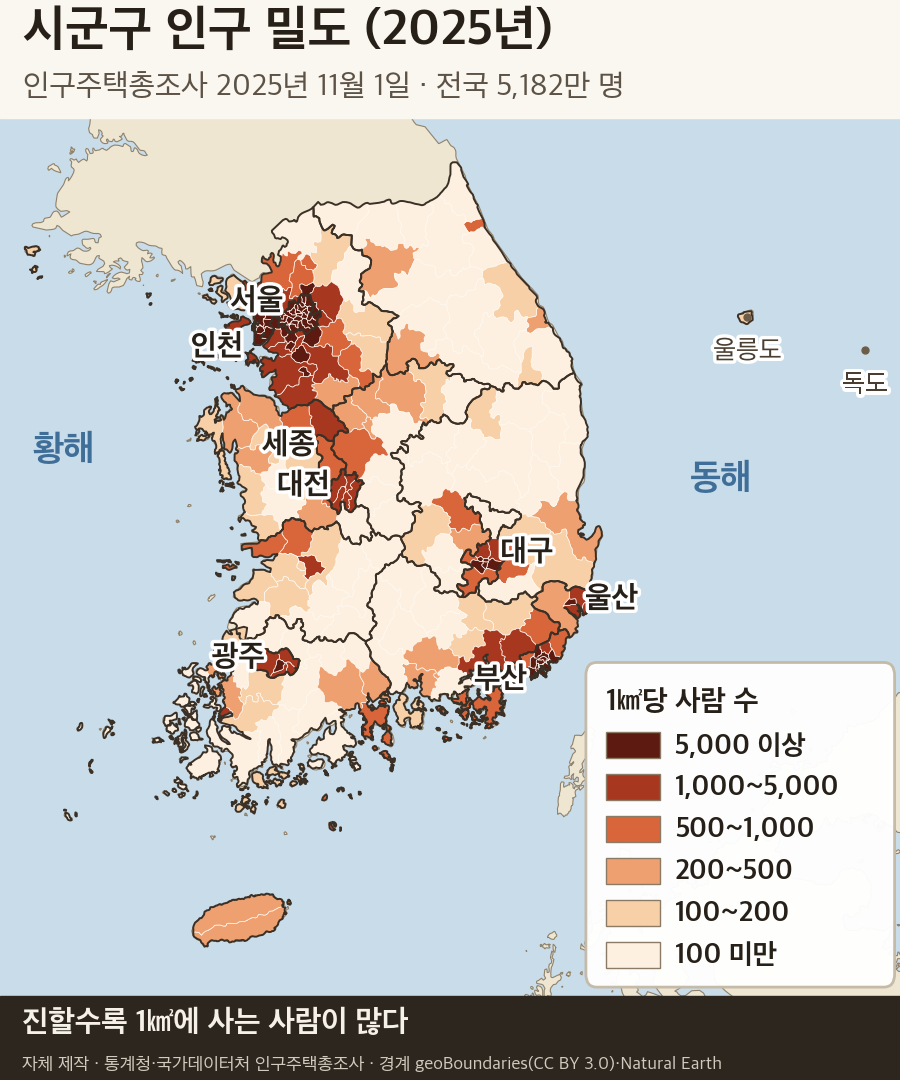
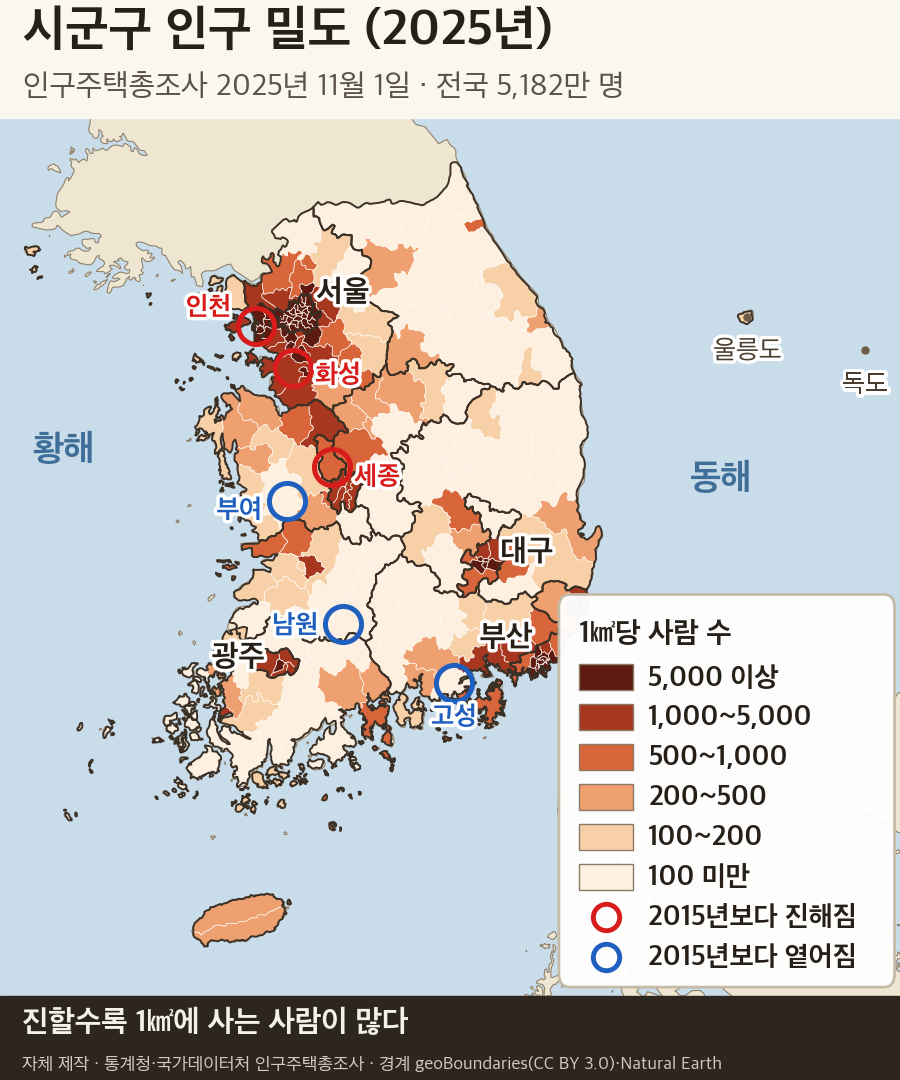
사회② 7-2 편집 — 생각 열기·2026 지도 한 상자(:::2단 … 교과서)·4단계 지도+변화표 한 상자(:::이어서)·다 채운 뒤에 하나로·학생용 출처·각주 제외·요인 버튼 격자로 같은 크기 · worksheet-gen 블록 둘 신설
Claude-Session: https://claude.ai/code/session_0112jfuNjXUAgEuhZG5Yg8vB

diff --git a/worksheets/7-2차시_우리나라의인구분포_개념편.html b/worksheets/7-2차시_우리나라의인구분포_개념편.html
@@ -205,10 +205,11 @@ code { background: #f1f3f7; border: 1px solid #e2e6ec; border-radius: 5px;
 .pk-gold .pk-card.pk-noimg { padding-top: 0; }
 .pk-gold .pk-card.pk-noimg .pk-name { padding-top: 14px; border-radius: 5px 5px 0 0; }
 .pk-gold .pk-card.pk-noimg .pk-btns { flex: 1 1 auto; justify-content: flex-start; }
-.pk-gold .pk-card.pk-noimg .pk-btns:not(.pk-btns-col) { align-items: flex-end; }
+/* 2026-10-07 격자로 — 한 버튼만 두 줄로 꺾여도(폰 «인문·사회») 두 버튼 높이·폭이 같게. 줄은 아래에 붙인다. */
+.pk-gold .pk-card.pk-noimg .pk-btns:not(.pk-btns-col) { display: grid; grid-auto-flow: column; grid-auto-columns: minmax(0, 1fr); align-content: end; }
 /* 2026-10-07 — 위 «flex: 0 0 auto»는 버튼 높이를 묶으려던 것인데 버튼 줄이 가로라 폭이 글자 크기로 묶였다
    (사회 7-4 «양» 17px · «비율» 28px). 폭은 똑같이 나누고(1 1 0) 높이는 아래 정렬로 고정한다. */
-.pk-gold .pk-card.pk-noimg .pk-btns:not(.pk-btns-col) .pk-b { flex: 1 1 0; }
+.pk-gold .pk-card.pk-noimg .pk-btns:not(.pk-btns-col) .pk-b { flex: none; }
 .pk-gold .pk-card.pk-noimg .pk-btns-col .pk-b { flex: 0 0 auto; }   /* 세로(선택지 셋 이상)는 높이 고정 그대로 */
 @media print { .pk-b { display: none; } .pk-card img { filter: none; } }
 
@@ -787,6 +788,14 @@ code { background: #f1f3f7; border: 1px solid #e2e6ec; border-radius: 5px;
   padding: 3px 10px; border-radius: 999px; margin-bottom: 8px;
 }
 .ws-tb-see { font-size: 0.9em; color: #7a6742; margin: 2px 0 6px; }
+/* 2026-10-07 :::2단 … 교과서 — 교과서 상자 바로 아래에 붙여 «생각 열기의 뒷이야기»로 읽히게(위 상자와 간격 줄임) */
+.ws-tb + .ws-tb-2c { margin-top: -6px; }
+.ws-tb-join { border-top: 1px dashed #d9c48f; margin-top: 12px; padding-top: 12px; }
+.ws-tb-join .ws-2c { margin: 4px 0 0; } .ws-tb-join table { background: #fff; } .ws-tb-join .c2-b { font-size: 0.95em; color: #3d3116; }
+.ws-tb-tag2 { background: #7a6742; }
+.ws-tb-2c .ws-2c { margin: 4px 0 0; }
+.ws-tb-2c table { background: #fff; }
+.ws-tb-2c .c2-b { font-size: 0.95em; color: #3d3116; }
 .ws-tb-ask { font-size: 0.95em; color: #3d3116; font-weight: 600; line-height: 2.1; }
 .ws-tb-ask strong { color: #8a5f12; }
 .ws-tb input.activity-input {
@@ -1040,7 +1049,7 @@ table:has(.ox-group) td:first-child { width: 46px; text-align: center; color: #6
 </head>
 <body>
 <div class="container">
-  <section class="hero-section"><h1 class="hero-title">사회② 인구 변화와 인구 문제 7-2차시 — 밤에 보면 왜 한쪽만 환할까? (우리나라 사람들은 어디에 살고 있을까?)</h1><p class="hero-subtitle">밤에 보면 왜 한쪽만 환할까?</p><div class="hero-keywords"><button type="button" class="hero-keyword has-card" data-card="1" aria-expanded="false">국회 의원 수는 무엇으로 정할까?<span class="kw-caret">＋</span></button><button type="button" class="hero-keyword has-card" data-card="2" aria-expanded="false">옛날 사람들은 우리나라 어디에 많이 살았을까?<span class="kw-caret">＋</span></button><button type="button" class="hero-keyword has-card" data-card="3" aria-expanded="false">1960년대 이후 사람들은 어디로 떠났을까?<span class="kw-caret">＋</span></button><button type="button" class="hero-keyword has-card" data-card="4" aria-expanded="false">광주와 곡성은 무엇이 다를까?<span class="kw-caret">＋</span></button></div><div class="hero-card" id="hero-card-1" hidden><div class="hero-card-inner"><p><strong>인구</strong>로 정한다. 선거구는 사람 수에 맞춰 나누기 때문에, 인구가 많은 곳일수록 선거구가 많고 국회 의원도 많다. 그래서 국회 의원 지도는 거꾸로 읽으면 인구 지도가 된다.</p></div></div><div class="hero-card" id="hero-card-2" hidden><div class="hero-card-inner"><p>벼농사에 유리한 <strong>남서부</strong> 평야 지역이다. 기후가 온화하고 평야가 넓어 쌀을 많이 거둘 수 있었다. 춥고 산이 많은 <strong>북동부</strong>는 사람이 적었다 — 이때는 <strong>자연적 요인</strong>이 사람을 불렀다.</p></div></div><div class="hero-card" id="hero-card-3" hidden><div class="hero-card-inner"><p>일자리가 있는 <strong>도시</strong>로 떠났다. 농촌을 떠나 도시로 향하는 <strong>이촌 향도</strong>다. 그 결과 대도시와 <strong>수도권</strong>, <strong>남동 임해 공업 지역</strong>에 사람이 몰렸다 — 이번에는 <strong>인문·사회적 요인</strong>이다.</p></div></div><div class="hero-card" id="hero-card-4" hidden><div class="hero-card-inner"><p>광주는 1㎢에 1,000명이 넘고 곡성군은 100명이 안 된다(교사용 교과서 131쪽 예시). 산지가 많은 지형(자연)에 더해 일자리·교통·생활 편의 시설(인문·사회)의 차이가 사람 수를 가른다.</p></div></div><img class="hero-image" src="images/7-2_hero_peninsula_night.jpg" alt=""><div class="hero-hook">우주 정거장에서 밤에 내려다본 우리나라다. 위쪽 한 덩어리만 유난히 하얗게 빛나고, 산이 많은 쪽은 깜깜하다. 불빛은 곧 사람이다. 우리나라 사람들은 어디에 몰려 살고, 왜 하필 거기일까?</div></section>
+  <section class="hero-section"><h1 class="hero-title">사회② 인구 변화와 인구 문제 7-2차시 — 밤에 보면 왜 한쪽만 환할까? (우리나라 사람들은 어디에 살고 있을까?)</h1><p class="hero-subtitle">밤에 보면 왜 한쪽만 환할까?</p><div class="hero-keywords"><button type="button" class="hero-keyword has-card" data-card="1" aria-expanded="false">국회 의원 수는 무엇으로 정할까?<span class="kw-caret">＋</span></button><button type="button" class="hero-keyword has-card" data-card="2" aria-expanded="false">옛날 사람들은 우리나라 어디에 많이 살았을까?<span class="kw-caret">＋</span></button><button type="button" class="hero-keyword has-card" data-card="3" aria-expanded="false">1960년대 이후 사람들은 어디로 떠났을까?<span class="kw-caret">＋</span></button><button type="button" class="hero-keyword has-card" data-card="4" aria-expanded="false">광주와 곡성은 무엇이 다를까?<span class="kw-caret">＋</span></button></div><div class="hero-card" id="hero-card-1" hidden><div class="hero-card-inner"><p><strong>인구</strong>로 정한다. 선거구는 사람 수에 맞춰 나누기 때문에, 인구가 많은 곳일수록 선거구가 많고 국회 의원도 많다. 그래서 국회 의원 지도는 거꾸로 읽으면 인구 지도가 된다.</p></div></div><div class="hero-card" id="hero-card-2" hidden><div class="hero-card-inner"><p>벼농사에 유리한 <strong>남서부</strong> 평야 지역이다. 기후가 온화하고 평야가 넓어 쌀을 많이 거둘 수 있었다. 춥고 산이 많은 <strong>북동부</strong>는 사람이 적었다 — 이때는 <strong>자연적 요인</strong>이 사람을 불렀다.</p></div></div><div class="hero-card" id="hero-card-3" hidden><div class="hero-card-inner"><p>일자리가 있는 <strong>도시</strong>로 떠났다. 농촌을 떠나 도시로 향하는 <strong>이촌 향도</strong>다. 그 결과 대도시와 <strong>수도권</strong>, <strong>남동 임해 공업 지역</strong>에 사람이 몰렸다 — 이번에는 <strong>인문·사회적 요인</strong>이다.</p></div></div><div class="hero-card" id="hero-card-4" hidden><div class="hero-card-inner"><p>광주는 1㎢에 1,000명이 넘고 곡성군은 100명이 안 된다(교사용 교과서 131쪽 예시). 산지가 많은 지형(자연)에 더해 일자리·교통·생활 편의 시설(인문·사회)의 차이가 사람 수를 가른다.</p><div class="card-quote">그림·지도 출처는 <a href="https://github.com/zzobakg-boop/vault-rag/blob/main/worksheets/images/CREDITS.md" target="_blank" rel="noopener">출처 모음</a>에 있다.</div></div></div><img class="hero-image" src="images/7-2_hero_peninsula_night.jpg" alt=""><div class="hero-hook">우주 정거장에서 밤에 내려다본 우리나라다. 위쪽 한 덩어리만 유난히 하얗게 빛나고, 산이 많은 쪽은 깜깜하다. 불빛은 곧 사람이다. 우리나라 사람들은 어디에 몰려 살고, 왜 하필 거기일까?</div></section>
   <div class="control-bar">
     <div class="score">
       빈칸: <span id="score">0</span>/7 · OX: <span id="ox-score">0</span>/5
@@ -1077,16 +1086,11 @@ table:has(.ox-group) td:first-child { width: 46px; text-align: center; color: #6
 <h2>📖 1단계: 국회 의원 수에 숨은 인구 지도</h2>
 <blockquote>📕 <strong>교과서 130쪽 펴고 · 배정 시간 6분</strong></blockquote>
 <br>
-<div class="ws-tb"><div class="ws-tb-tag">📕 교과서 130쪽 · 생각 열기</div><div class="ws-tb-see">지도에 지역마다 뽑는 국회 의원 수가 적혀 있다. 하나의 선거구에서 국회 의원 한 명을 뽑는다.</div><div class="ws-tb-ask">서울과 부산은 <strong>면적에 비해</strong> 국회 의원 수가 많다. 왜 그럴까? <input type="text" class="blank-input activity-input no-score" data-id="act-1" data-label="교과서 130쪽에서 찾기 — 서울과 부산은 면적에 비해 국회 의원 수가 많다. 왜 그럴까?" style="width:360px" placeholder=""></div></div>
-<br>
-<blockquote>🎙 교과서 지도는 2016년 것이야. 지금 지도로 다시 보자.</blockquote>
-<br>
+<div class="ws-tb"><div class="ws-tb-tag">📕 교과서 130쪽 · 생각 열기</div><div class="ws-tb-see">지도에 지역마다 뽑는 국회 의원 수가 적혀 있다. 하나의 선거구에서 국회 의원 한 명을 뽑는다.</div><div class="ws-tb-ask">서울과 부산은 <strong>면적에 비해</strong> 국회 의원 수가 많다. 왜 그럴까? <input type="text" class="blank-input activity-input no-score" data-id="act-1" data-label="교과서 130쪽에서 찾기 — 서울과 부산은 면적에 비해 국회 의원 수가 많다. 왜 그럴까?" style="width:360px" placeholder=""></div>
+<div class="ws-tb-join"><div class="ws-tb-tag ws-tb-tag2">📕 교과서 지도는 2016년 — 2026년 지금은?</div>
 <div class="ws-2c" style="grid-template-columns:minmax(0,1.15fr) minmax(0,1.0fr)"><div class="c2-a">
-<figure class="ws-fig"><img src="images/7-2_seats_2026.png" alt="2026년 시도별 지역구 국회 의원 수 지도. 숫자는 의원 수, 색은 넓이 1,000㎢당 의원 수다." loading="lazy"><figcaption>2026년 시도별 지역구 국회 의원 수 지도. 숫자는 의원 수, 색은 넓이 1,000㎢당 의원 수다.</figcaption></figure>
-<blockquote>🗺 자체 제작 · 공직선거법 [별표 1](2026. 4. 22. 개정) 지역구 254 · 경계 geoBoundaries(CC BY 3.0)·Natural Earth</blockquote>
+<figure class="ws-fig"><img src="images/7-2_seats_2026.png" alt="지역구 국회 의원 수(2026년)" loading="lazy"><figcaption>지역구 국회 의원 수(2026년)</figcaption></figure>
 </div><div class="c2-b">
-<p><strong>2016년 교과서 지도와 지금</strong></p>
-<br>
 <table>
 <tr><td></td><td>2016년</td><td>2026년</td></tr>
 <tr><td>전국 지역구</td><td>253명</td><td>254명</td></tr>
@@ -1096,20 +1100,19 @@ table:has(.ox-group) td:first-child { width: 46px; text-align: center; color: #6
 <tr><td>세종</td><td>1명</td><td>2명</td></tr>
 </table>
 <br>
-<p>2026년 7월 1일 광주광역시와 전라남도가 합쳐 <strong>전남광주통합특별시</strong>가 되었다. 그래서 지금 지도에는 '광주 8 + 전남 10'이 '전남광주 18'로 나온다.</p>
+<p>2026년 7월 광주와 전라남도가 합쳐 <strong>전남광주통합특별시</strong>가 되었다. 그래서 '광주 8 + 전남 10'이 지금은 '전남광주 18'이다.</p>
 <br>
-<p>🔍 <strong>숫자와 색을 따로 읽자.</strong> 숫자는 의원이 <strong>몇 명</strong>인지, 색은 같은 넓이에 의원이 <strong>얼마나 빽빽한지</strong>다. 경기는 60명으로 가장 많은데 색은 서울이 더 진하다.</p>
-</div></div>
-<br>
-<div class="ws-pick" id="pk42"><div class="pk-head"><span>이 숫자는 어떻게 만든 숫자일까? 사람·물건을 하나하나 센 숫자(몇 명·몇 개)이면 '센 수', 전체나 넓이·사람 수로 나눠 견준 숫자(몇 %·○○당)이면 '견준 값'을 고르자. 다 고르면 정답이 나오고, 틀린 카드는 까닭이 먼저 펼쳐진다.</span><b class="pk-count">0 / 6</b></div><div class="pk-grid pk-gold"><div class="pk-card pk-noimg" data-i="0" data-ans="센 수"><div class="pk-name">경기 지역구 60명</div><div class="pk-sit">2026년 경기도에서 뽑는 지역구 국회 의원</div><div class="pk-btns"><button type="button" class="pk-b" data-v="센 수">센 수</button><button type="button" class="pk-b" data-v="견준 값">견준 값</button></div><div class="pk-why" hidden>의원이 몇 명인지 그대로 센 수다</div></div><div class="pk-card pk-noimg" data-i="1" data-ans="견준 값"><div class="pk-name">서울 넓이 0.6%</div><div class="pk-sit">우리나라 땅 가운데 서울이 차지하는 넓이</div><div class="pk-btns"><button type="button" class="pk-b" data-v="센 수">센 수</button><button type="button" class="pk-b" data-v="견준 값">견준 값</button></div><div class="pk-why" hidden>나라 전체 넓이를 100으로 놓고 견준 값이다 — 서울 넓이 자체(605㎢)가 아니다</div></div><div class="pk-card pk-noimg" data-i="2" data-ans="견준 값"><div class="pk-name">서울 1,000㎢당 79명</div><div class="pk-sit">서울 넓이에 견준 지역구 의원 수</div><div class="pk-btns"><button type="button" class="pk-b" data-v="센 수">센 수</button><button type="button" class="pk-b" data-v="견준 값">견준 값</button></div><div class="pk-why" hidden>'○○당'은 넓이로 나눠 견준 값이다 — 서울 의원 수 자체는 48명이다</div></div><div class="pk-card pk-noimg" data-i="3" data-ans="센 수"><div class="pk-name">부산 20대 4,500명</div><div class="pk-sit">2025년 부산을 떠난 20대에서 들어온 20대를 뺀 수</div><div class="pk-btns"><button type="button" class="pk-b" data-v="센 수">센 수</button><button type="button" class="pk-b" data-v="견준 값">견준 값</button></div><div class="pk-why" hidden>사람 수를 그대로 센 값이다</div></div><div class="pk-card pk-noimg" data-i="4" data-ans="견준 값"><div class="pk-name">서울 1㎢에 1만 5천 명 넘게</div><div class="pk-sit">서울 넓이 1㎢마다 사는 사람</div><div class="pk-btns"><button type="button" class="pk-b" data-v="센 수">센 수</button><button type="button" class="pk-b" data-v="견준 값">견준 값</button></div><div class="pk-why" hidden>사람 수를 넓이로 나눈 값, 곧 인구 밀도다</div></div><div class="pk-card pk-noimg" data-i="5" data-ans="센 수"><div class="pk-name">경기 인구 1,378만 명</div><div class="pk-sit">2026년 9월 경기도에 주민 등록을 한 사람</div><div class="pk-btns"><button type="button" class="pk-b" data-v="센 수">센 수</button><button type="button" class="pk-b" data-v="견준 값">견준 값</button></div><div class="pk-why" hidden>사람 수를 그대로 센 값이다</div></div></div><div class="pk-result" hidden></div></div><script>(function(){var w=document.getElementById("pk42");var cs=[].slice.call(w.querySelectorAll(".pk-card")),N=cs.length;var OPTS=["센 수", "견준 값"],MOOD=false,OPEN=false;function done(){return cs.filter(function(c){return c.dataset.pick}).length}function reveal(){var ok=0;cs.forEach(function(c){var right=c.dataset.pick===c.dataset.ans;if(right)ok++;c.classList.add(right?"pk-ok":"pk-no");if(!right&&MOOD){c.classList.remove("pk-happy","pk-sad");c.classList.add(c.dataset.ans==="웃음"?"pk-happy":"pk-sad");}if(!right||OPEN)c.querySelector(".pk-why").hidden=false;if(right&&!OPEN&&!c.dataset.tap){c.dataset.tap=1;c.classList.add("pk-tap");c.addEventListener("click",function(e){if(e.target.closest&&e.target.closest(".pk-b"))return;var y=c.querySelector(".pk-why");y.hidden=!y.hidden;});}});var r=w.querySelector(".pk-result");r.hidden=false;r.innerHTML="<b>"+ok+" / "+N+"</b> 맞혔어. "+(OPEN?"모든 카드의 이유가 펼쳐졌어 — 틀린 카드부터 보자.":"틀린 카드는 이유가 먼저 펼쳐졌어 — 거기부터 보자. 맞힌 카드도 누르면 이유가 열려.")+"<div class='pk-sum'>"+OPTS.map(function(o,oi){var head=MOOD?(o==="웃음"?"웃는 사람":"우는 사람"):o;var cls=MOOD?(o==="웃음"?"pk-up":"pk-down"):("pk-c"+oi);return "<div class='pk-col "+cls+"'><b>"+head+"</b>"+cs.filter(function(c){return c.dataset.ans===o}).map(function(c){return "<span>"+c.querySelector(".pk-name").textContent+"</span>"}).join("")+"</div>"}).join("")+"</div>";r.scrollIntoView({block:"nearest",behavior:"smooth"});}cs.forEach(function(c){c.querySelectorAll(".pk-b").forEach(function(b){b.addEventListener("click",function(){if(w.classList.contains("pk-done"))return;c.dataset.pick=b.dataset.v;c.classList.add("pk-set");if(MOOD){c.classList.remove("pk-happy","pk-sad");c.classList.add(b.dataset.v==="웃음"?"pk-happy":"pk-sad");}c.querySelectorAll(".pk-b").forEach(function(x){x.classList.toggle("on",x===b)});w.querySelector(".pk-count").textContent=done()+" / "+N;if(done()===N){w.classList.add("pk-done");reveal();}});});});})();</script>
-<br>
-<blockquote>🎙 시험에서 '무역 의존도가 높다 = 수출을 많이 한다'로 읽어서 틀린 친구들이 많았지? 견준 값(%)은 무엇으로 나눴는지에 따라 달라져서 크기 자체를 말해 주지 않아. 인구 단원에는 이런 숫자가 계속 나와.</blockquote>
+<p>🔍 숫자는 의원이 <strong>몇 명</strong>인지, 색은 같은 넓이에 <strong>얼마나 빽빽한지</strong>다. 경기가 60명으로 가장 많은데 왜 서울 색이 더 진할까?</p>
+</div></div></div>
+<!--tb-end--></div>
 <br>
 <details class="ws-fold ws-fold-더보기"><summary>답을 쓴 뒤에 펼쳐 보기 — 국회 의원 지도는 무엇을 보여 줄까</summary><div class="ws-fold-body">
 <p>🎙 국회 의원을 뽑는 선거구는 <strong>사람 수</strong>에 맞춰 나눠. 그래서 국회 의원 지도를 거꾸로 읽으면 <strong>인구 지도</strong>가 돼.</p>
+<p>그런데 10년 사이 수도권 사람이 늘었는데도 수도권 의원 수는 그대로다. 선거구마다 사람 수가 조금씩 달라도 되게 범위를 두고 전체 의석수도 거의 그대로라, 사람 수가 조금 바뀐다고 의원 수가 곧바로 따라 바뀌지는 않는다.</p>
+<p>🎙 국회 의원만 그런 게 아니야. 프로야구 10개 구단 가운데 LG·두산·키움 셋이 서울을 연고지로 쓰고, 인천 SSG와 수원 KT까지 더하면 다섯이 수도권이야. 사람이 많은 곳에 팬도 많으니까. 우리 KIA는 광주 하나뿐이지.</p>
 </div></details>
 <br>
-<blockquote>🎙 국회 의원만 그런 게 아니야. 프로야구 10개 구단 가운데 LG·두산·키움 셋이 서울을 연고지로 쓰고, 인천 SSG와 수원 KT까지 더하면 다섯이 수도권이야. 사람이 많은 곳에 팬도 많으니까. 우리 KIA는 광주 하나뿐이지.</blockquote>
+<div class="ws-pick" id="pk44"><div class="pk-head"><span>🔢 이 숫자는 하나하나 '센 수'(몇 명·몇 개)일까, 무엇으로 나눠 '견준 값'(몇 %·○○당)일까?</span><b class="pk-count">0 / 6</b></div><div class="pk-grid pk-gold"><div class="pk-card pk-noimg" data-i="0" data-ans="센 수"><div class="pk-name">경기 지역구 60명</div><div class="pk-sit">2026년 경기도에서 뽑는 지역구 국회 의원</div><div class="pk-btns"><button type="button" class="pk-b" data-v="센 수">센 수</button><button type="button" class="pk-b" data-v="견준 값">견준 값</button></div><div class="pk-why" hidden>의원이 몇 명인지 그대로 센 수다</div></div><div class="pk-card pk-noimg" data-i="1" data-ans="견준 값"><div class="pk-name">서울 넓이 0.6%</div><div class="pk-sit">우리나라 땅 가운데 서울이 차지하는 넓이</div><div class="pk-btns"><button type="button" class="pk-b" data-v="센 수">센 수</button><button type="button" class="pk-b" data-v="견준 값">견준 값</button></div><div class="pk-why" hidden>나라 전체 넓이를 100으로 놓고 견준 값이다 — 서울 넓이 자체(605㎢)가 아니다</div></div><div class="pk-card pk-noimg" data-i="2" data-ans="견준 값"><div class="pk-name">서울 1,000㎢당 79명</div><div class="pk-sit">서울 넓이에 견준 지역구 의원 수</div><div class="pk-btns"><button type="button" class="pk-b" data-v="센 수">센 수</button><button type="button" class="pk-b" data-v="견준 값">견준 값</button></div><div class="pk-why" hidden>'○○당'은 넓이로 나눠 견준 값이다 — 서울 의원 수 자체는 48명이다</div></div><div class="pk-card pk-noimg" data-i="3" data-ans="센 수"><div class="pk-name">부산 20대 4,500명</div><div class="pk-sit">2025년 부산을 떠난 20대에서 들어온 20대를 뺀 수</div><div class="pk-btns"><button type="button" class="pk-b" data-v="센 수">센 수</button><button type="button" class="pk-b" data-v="견준 값">견준 값</button></div><div class="pk-why" hidden>사람 수를 그대로 센 값이다</div></div><div class="pk-card pk-noimg" data-i="4" data-ans="견준 값"><div class="pk-name">서울 1㎢에 1만 5천 명 넘게</div><div class="pk-sit">서울 넓이 1㎢마다 사는 사람</div><div class="pk-btns"><button type="button" class="pk-b" data-v="센 수">센 수</button><button type="button" class="pk-b" data-v="견준 값">견준 값</button></div><div class="pk-why" hidden>사람 수를 넓이로 나눈 값, 곧 인구 밀도다</div></div><div class="pk-card pk-noimg" data-i="5" data-ans="센 수"><div class="pk-name">경기 인구 1,378만 명</div><div class="pk-sit">2026년 9월 경기도에 주민 등록을 한 사람</div><div class="pk-btns"><button type="button" class="pk-b" data-v="센 수">센 수</button><button type="button" class="pk-b" data-v="견준 값">견준 값</button></div><div class="pk-why" hidden>사람 수를 그대로 센 값이다</div></div></div><div class="pk-result" hidden></div></div><script>(function(){var w=document.getElementById("pk44");var cs=[].slice.call(w.querySelectorAll(".pk-card")),N=cs.length;var OPTS=["센 수", "견준 값"],MOOD=false,OPEN=false;function done(){return cs.filter(function(c){return c.dataset.pick}).length}function reveal(){var ok=0;cs.forEach(function(c){var right=c.dataset.pick===c.dataset.ans;if(right)ok++;c.classList.add(right?"pk-ok":"pk-no");if(!right&&MOOD){c.classList.remove("pk-happy","pk-sad");c.classList.add(c.dataset.ans==="웃음"?"pk-happy":"pk-sad");}if(!right||OPEN)c.querySelector(".pk-why").hidden=false;if(right&&!OPEN&&!c.dataset.tap){c.dataset.tap=1;c.classList.add("pk-tap");c.addEventListener("click",function(e){if(e.target.closest&&e.target.closest(".pk-b"))return;var y=c.querySelector(".pk-why");y.hidden=!y.hidden;});}});var r=w.querySelector(".pk-result");r.hidden=false;r.innerHTML="<b>"+ok+" / "+N+"</b> 맞혔어. "+(OPEN?"모든 카드의 이유가 펼쳐졌어 — 틀린 카드부터 보자.":"틀린 카드는 이유가 먼저 펼쳐졌어 — 거기부터 보자. 맞힌 카드도 누르면 이유가 열려.")+"<div class='pk-sum'>"+OPTS.map(function(o,oi){var head=MOOD?(o==="웃음"?"웃는 사람":"우는 사람"):o;var cls=MOOD?(o==="웃음"?"pk-up":"pk-down"):("pk-c"+oi);return "<div class='pk-col "+cls+"'><b>"+head+"</b>"+cs.filter(function(c){return c.dataset.ans===o}).map(function(c){return "<span>"+c.querySelector(".pk-name").textContent+"</span>"}).join("")+"</div>"}).join("")+"</div>";r.scrollIntoView({block:"nearest",behavior:"smooth"});}cs.forEach(function(c){c.querySelectorAll(".pk-b").forEach(function(b){b.addEventListener("click",function(){if(w.classList.contains("pk-done"))return;c.dataset.pick=b.dataset.v;c.classList.add("pk-set");if(MOOD){c.classList.remove("pk-happy","pk-sad");c.classList.add(b.dataset.v==="웃음"?"pk-happy":"pk-sad");}c.querySelectorAll(".pk-b").forEach(function(x){x.classList.toggle("on",x===b)});w.querySelector(".pk-count").textContent=done()+" / "+N;if(done()===N){w.classList.add("pk-done");reveal();}});});});})();</script>
 <br>
 <h2>📖 2단계: 산업화 이전 — 사람은 논을 따라 살았다</h2>
 <blockquote>📕 <strong>교과서 130쪽 펴고 · 배정 시간 6분</strong></blockquote>
@@ -1126,20 +1129,17 @@ table:has(.ox-group) td:first-child { width: 46px; text-align: center; color: #6
 <p>지금 우리나라 인구는 서울을 중심으로 하는 수도권에 전체의 ⑥<input type="text" class="blank-input" data-answer="절반" data-id="6" style="width:60px" placeholder=""> 정도가 살고, 그 밖에 부산·대구 같은 대도시에 밀집해 있다. 반면 태백산맥과 소백산맥 일대의 ⑦<input type="text" class="blank-input" data-answer="산간" data-id="7" style="width:60px" placeholder=""> 지역과 농어촌 지역은 인구가 감소하거나 정체되어 희박하다.</p>
 <br>
 <div class="ws-2c" style="grid-template-columns:minmax(0,1.0fr) minmax(0,1.0fr)"><div class="c2-a">
-<figure class="ws-fig"><img src="images/7-2_density.jpg" alt="우리나라의 인구 밀도 지도, 2000년. 1㎢에 사는 사람 수를 색으로 나타냈다. 진한 밤색일수록 빽빽하다." loading="lazy"><figcaption>우리나라의 인구 밀도 지도, 2000년. 1㎢에 사는 사람 수를 색으로 나타냈다. 진한 밤색일수록 빽빽하다.</figcaption></figure>
-<blockquote>📷 우리나라의 인구 밀도, 2000년 (CIESIN 컬럼비아대학교 · SEDACMaps · CC BY 2.0 · Wikimedia Commons) — 범례 'Persons per km²'는 '1㎢당 사람 수'다.</blockquote>
+<figure class="ws-fig"><img src="images/7-2_density.jpg" alt="우리나라 인구 밀도(2000년) — 진할수록 빽빽하다 · Persons per km² = 1㎢당 사람 수" loading="lazy"><figcaption>우리나라 인구 밀도(2000년) — 진할수록 빽빽하다 · Persons per km² = 1㎢당 사람 수</figcaption></figure>
 </div><div class="c2-b">
-<figure class="ws-fig"><img src="images/7-2_mountain_ranges.png" alt="태백산맥과 소백산맥 지도. 태백산맥은 동해안을 따라 설악산에서 태백산을 지나 남쪽으로, 소백산맥은 태백산에서 갈라져 소백산·속리산을 지나 지리산까지 남서쪽으로 뻗는다. 일대의 시·군으로 정선·태백·단양·영주·문경·무주·남원을 표시했다." loading="lazy"><figcaption>태백산맥과 소백산맥 지도. 태백산맥은 동해안을 따라 설악산에서 태백산을 지나 남쪽으로, 소백산맥은 태백산에서 갈라져 소백산·속리산을 지나 지리산까지 남서쪽으로 뻗는다. 일대의 시·군으로 정선·태백·단양·영주·문경·무주·남원을 표시했다.</figcaption></figure>
-<blockquote>🗺 자체 제작 · 지형 음영 Natural Earth · 산맥 선은 주요 산을 이은 개념도</blockquote>
+<figure class="ws-fig"><img src="images/7-2_mountain_ranges.png" alt="태백산맥과 소백산맥 — 대표 산과 일대의 시·군" loading="lazy"><figcaption>태백산맥과 소백산맥 — 대표 산과 일대의 시·군</figcaption></figure>
 </div></div>
 <br>
 <p>빈칸을 채웠으면 지도로 확인하자. 왼쪽 지도에서 <strong>가장 진한 덩어리 셋</strong>을 찾아 어느 지역인지 말해 보자. 그다음 오른쪽 산맥 지도와 견주어 보자 — 왼쪽 지도에서 옅은 띠가 어디를 따라 이어지는가?</p>
 <br>
-<blockquote>🎙 태백산맥 쪽에는 정선·태백, 소백산맥 쪽에는 단양·영주·문경·무주·남원 같은 시·군이 있어. 정선군은 1㎢에 30명이 안 되고, 단양군은 40명이 안 돼. 서울은 같은 넓이에 1만 5천 명 넘게 살아.</blockquote>
+<blockquote>🎙 표지 사진에서 하얗게 빛나던 덩어리가 수도권, 그 사이 깜깜한 산줄기가 오른쪽 지도의 산맥이야. 태백산맥 쪽에는 정선·태백, 소백산맥 쪽에는 단양·영주·문경·무주·남원 같은 시·군이 있어. 정선군은 1㎢에 30명이 안 되고, 단양군은 40명이 안 돼. 서울은 같은 넓이에 1만 5천 명 넘게 살아.</blockquote>
 <br>
 <div class="ws-2c" style="grid-template-columns:minmax(0,1.2fr) minmax(0,1.0fr)"><div class="c2-a">
-<figure class="ws-fig"><img src="images/7-2_coastal_industry.png" alt="영일만의 포항에서 울산·부산·창원·거제를 지나 여수·광양까지 남동쪽 바닷가를 따라 공업 도시가 띠처럼 이어진 지도. 도시마다 제철·자동차·조선·석유 화학·기계 같은 대표 산업을 적었다." loading="lazy"><figcaption>영일만의 포항에서 울산·부산·창원·거제를 지나 여수·광양까지 남동쪽 바닷가를 따라 공업 도시가 띠처럼 이어진 지도. 도시마다 제철·자동차·조선·석유 화학·기계 같은 대표 산업을 적었다.</figcaption></figure>
-<blockquote>🗺 자체 제작 · 바탕 Natural Earth(퍼블릭 도메인) · 시도 경계 geoBoundaries(CC BY 3.0) · 띠는 개념도</blockquote>
+<figure class="ws-fig"><img src="images/7-2_coastal_industry.png" alt="남동쪽 바닷가의 공업 도시 — 빨간 글자는 대표 산업" loading="lazy"><figcaption>남동쪽 바닷가의 공업 도시 — 빨간 글자는 대표 산업</figcaption></figure>
 </div><div class="c2-b">
 <p>지도의 붉은 띠가 빈칸 ⑤에 들어갈 공업 지역이다. 영일만의 포항에서 울산·부산을 거쳐 광양만까지 남동쪽 바닷가를 따라 이어진다.</p>
 <br>
@@ -1148,44 +1148,33 @@ table:has(.ox-group) td:first-child { width: 46px; text-align: center; color: #6
 <p>🔍 지도에서 빨간 글자를 보자. 쇠를 만들고(제철), 배를 짓고(조선), 기름에서 원료를 뽑는(석유 화학) <strong>무거운 공업</strong>이 많다.</p>
 </div></div>
 <br>
-<details class="ws-fold ws-fold-더보기"><summary>다 채운 뒤에 — 이름의 뜻</summary><div class="ws-fold-body">
-<p>⑤의 '임해'(臨海)는 '바다에 닿아 있다'는 뜻이다. 남동쪽 바닷가에 닿아 있는 공업 지역이라는 이름이다.</p>
-</div></details>
-<br>
-<blockquote>🎙 표지 사진의 그 하얀 덩어리가 바로 수도권이야. 오른쪽 아래 끝에서 빛나는 곳이 부산이고, 그 사이 산줄기는 깜깜하지.</blockquote>
-<br>
-<details class="ws-fold ws-fold-더보기"><summary>다 채운 뒤에 — 밀집한 대도시 부산의 반전</summary><div class="ws-fold-body">
-<p>🎙 그런데 반전이 있어. 교과서는 부산을 '사람이 밀집한 대도시'로 들었지? 사람이 많이 사는 곳이라고 사람이 계속 들어오는 건 아니야. 2025년에 부산은 들어온 사람보다 떠난 사람이 1만 2천 명 많았고, 그 가운데 20대가 4천 5백 명으로 나이대 중에서 가장 많았어. 떠난 까닭으로 가장 많이 꼽은 건 <strong>일자리</strong>였고, 부산을 떠나 수도권으로 간 사람이 다른 어느 시·도보다 많았어. 1960년대 시골 청년이 일자리를 찾아 부산에 왔듯, 지금은 부산 청년이 일자리를 찾아 수도권으로 가는 거야.</p>
-</div></details>
-<br>
-<details class="ws-fold ws-fold-더보기"><summary>다 채운 뒤에 — 지금 값과 다른 나라</summary><div class="ws-fold-body">
-<p>지금 값 — 교과서는 '절반 정도'라고 썼다. 2026년 9월 주민등록 인구로 수도권은 <strong>51.1%</strong>다. 2019년에 처음 절반을 넘었다.</p>
-<p>수도권 사람은 늘었는데 의원 수는 왜 그대로일까? 교사용 교과서 자료 해설은 '수도권 인구 약 2,527만 명(2015년), 전체의 49.5%, 지역구 의원 122명'이다. 2025년에는 2,638만 명(50.9%)으로 늘었는데 수도권 지역구는 여전히 122명이다(서울이 1명 줄고 인천이 1명 늘었다). 선거구는 사람 수에 맞춰 나누지만 선거구마다 사람 수가 조금씩 다를 수 있게 범위를 두고 전체 의석수도 거의 그대로라, 사람 수가 조금 바뀐다고 의원 수가 곧바로 따라 바뀌지는 않는다.</p>
-<p>아이슬란드는 국민의 약 3분의 2(64%)가 수도 레이캬비크와 그 둘레에 산다(아이슬란드 통계청, 2024).</p>
-<p>인도네시아는 국토의 7%도 안 되는 자와섬에 국민의 56%가 산다(인도네시아 통계청 인구 총조사, 2020).</p>
-<p>🎙 한곳에 몰리는 건 우리만의 일은 아니야. 그런데 왜 몰렸는지는 나라마다 달라. 아이슬란드는 땅 대부분이 얼음과 화산이라서, 자와섬은 땅이 기름져서야. 우리나라는 무엇 때문이었지?</p>
+<details class="ws-fold ws-fold-더보기"><summary>다 채운 뒤에 — 빈칸 너머 이야기</summary><div class="ws-fold-body">
+<p><strong>⑤ 이름의 뜻</strong> — '임해'(臨海)는 '바다에 닿아 있다'는 뜻이다.</p>
+<p><strong>⑥ 지금은</strong> — 수도권에 사는 사람은 51.1%(2026년 9월)다. 2019년에 처음 절반을 넘었다.</p>
+<p><strong>부산의 반전</strong> — 2025년 부산은 들어온 사람보다 떠난 사람이 1만 2천 명 많았고, 떠난 사람은 20대가 가장 많았다. 1960년대엔 부산으로 오던 청년이 지금은 일자리를 찾아 수도권으로 간다.</p>
+<p><strong>다른 나라도 몰려 산다</strong> — 아이슬란드 사람 64%는 수도 둘레에(땅 대부분이 얼음과 화산), 인도네시아 사람 56%는 국토의 7%도 안 되는 자와섬에(화산재 땅이 기름져서) 산다.</p>
+<p>🎙 몰리는 까닭은 나라마다 달라. 우리나라는 무엇 때문이었지?</p>
 </div></details>
 <br>
 <h2>📖 4단계: 우리 동네는 어떨까 — 광주와 곡성</h2>
 <blockquote>📕 <strong>교과서 131쪽 펴고 · 배정 시간 8분</strong></blockquote>
 <br>
-<p>교과서 131쪽 지도는 2015년이다. 같은 자료(인구주택총조사)와 같은 색 구간으로 2015년과 2025년을 다시 그려 나란히 놓았다.</p>
 <br>
+<div class="ws-tb ws-tb-2c"><div class="ws-tb-tag">📕 교과서 131쪽 지도는 2015년 — 10년 뒤 2025년은? 오른쪽 동그라미가 바뀐 곳</div>
 <div class="ws-2c" style="grid-template-columns:minmax(0,1.0fr) minmax(0,1.0fr)"><div class="c2-a">
-<figure class="ws-fig"><img src="images/7-2_density_2015.png" alt="2015년 시군구 인구 밀도 지도. 교과서 131쪽과 같은 여섯 구간으로 칠했다." loading="lazy"><figcaption>2015년 시군구 인구 밀도 지도. 교과서 131쪽과 같은 여섯 구간으로 칠했다.</figcaption></figure>
+<figure class="ws-fig"><img src="images/7-2_density_2015.png" alt="2015년 — 교과서 131쪽과 같은 자료·같은 색 구간으로 다시 그림" loading="lazy"><figcaption>2015년 — 교과서 131쪽과 같은 자료·같은 색 구간으로 다시 그림</figcaption></figure>
 </div><div class="c2-b">
-<figure class="ws-fig"><img src="images/7-2_density_2025.png" alt="2025년 시군구 인구 밀도 지도. 2015년 지도와 같은 여섯 구간으로 칠했다." loading="lazy"><figcaption>2025년 시군구 인구 밀도 지도. 2015년 지도와 같은 여섯 구간으로 칠했다.</figcaption></figure>
+<figure class="ws-fig"><img src="images/7-2_density_2025.png" alt="2025년 — 동그라미가 바뀐 곳" loading="lazy"><figcaption>2025년 — 동그라미가 바뀐 곳</figcaption></figure>
 </div></div>
-<blockquote>🗺 자체 제작 · 통계청·국가데이터처 인구주택총조사(2015·2025년 11월 1일) · 경계 geoBoundaries(CC BY 3.0) — 넓이는 경계 자료로 잰 값이라 실제와 조금 다를 수 있다</blockquote>
+<div class="ws-tb-join"><div class="ws-tb-tag ws-tb-tag2">🔍 10년 동안 무엇이 달라졌을까?</div>
+<table>
+<tr><td>그대로인 것</td><td>🔴 진해진 곳</td><td>🔵 옅어진 곳</td></tr>
+<tr><td>수도권·대도시는 진하고, 강원·경북 북부와 소백산맥을 따라 옅다</td><td><strong>화성</strong> 61만 → 103만 명 · <strong>세종</strong> 20만 → 39만 명 · 인천 <strong>송도·청라</strong> — 새 아파트 단지·공장·정부 청사</td><td><strong>부여·남원·경남 고성</strong> — 1㎢에 100명 아래로 · <strong>곡성</strong>도 50명 아래로</td></tr>
+</table>
 <br>
-<p>🔍 <strong>10년 동안 무엇이 달라졌을까?</strong></p>
-<p><strong>그대로인 것</strong> — 큰 모양이다. 수도권과 대도시는 진하고, 강원·경북 북부와 소백산맥을 따라 옅다.</p>
-<br>
-<p><strong>진해진 곳</strong> — 경기 <strong>화성시</strong>는 61만 명에서 103만 명으로 늘어 한 단계 진해졌다. <strong>세종시</strong>(20만 → 39만 명)와 인천 <strong>송도·청라</strong>가 있는 연수구·서구도 진해졌다. 새 아파트 단지와 공장, 정부 청사가 들어선 곳이다.</p>
-<br>
-<p><strong>옅어진 곳</strong> — 충남 부여군, 전북 남원시, 경남 고성군은 1㎢에 100명이 넘다가 100명 아래로 내려갔다. 곡성군도 1㎢에 50명 남짓이던 것이 50명 아래로 줄었다.</p>
-<br>
-<blockquote>🎙 2015년과 2025년 지도를 처음 보면 '똑같은데?' 싶을 거야. 바로 그게 첫째 답이야 — 사람이 모이는 큰 틀은 10년 만에 잘 바뀌지 않아. 바뀐 건 새 도시가 생긴 몇 곳과, 조금씩 비어 가는 시골이야.</blockquote>
+<p>🎙 처음 보면 '똑같은데?' 싶지? 그게 첫째 답이야 — 사람이 모이는 큰 틀은 10년 만에 잘 안 바뀌어. 바뀐 건 새 도시가 생긴 몇 곳과, 조금씩 비어 가는 시골이야.</p>
+</div>
+<!--tb-end--></div>
 <br>
 <div class="ws-tb"><div class="ws-tb-tag">📕 교과서 131쪽 · 스스로 탐구 「우리나라의 인구 분포」</div><div class="ws-tb-see">2번 표에서 요인 넷(지형·산업·교통·생활 편의 시설)을 '인구 분포 특징'과 연결해 보자.</div><div class="ws-tb-ask">넷 가운데 <strong>산지가 많은 강원도</strong>의 인구가 적은 까닭이 되는 요인 두 개를 골라, 왜 그 요인인지 한 줄씩 적자. <input type="text" class="blank-input activity-input no-score" data-id="act-2" data-label="교과서 131쪽에서 찾기 — 넷 가운데 산지가 많은 강원도의 인구가 적은 까닭이 되는 요인 두 개" style="width:360px" placeholder=""></div></div>
 <br>
@@ -1194,12 +1183,13 @@ table:has(.ox-group) td:first-child { width: 46px; text-align: center; color: #6
 <p>🎙 놀러 오는 사람이 아무리 많아도 인구 지도는 <strong>그곳에 사는 사람</strong>을 세. '인구가 희박한 도'라는 말 안에도 사람이 모인 도시와 빈 산골이 같이 있는 거야.</p>
 </div></details>
 <br>
-<blockquote>🎙 광주 바로 옆에 곡성군이 있어. 광주는 1㎢에 1,000명이 넘게 살고, 곡성군은 100명이 안 돼. 2026년 7월부터 둘은 같은 '전남광주통합특별시'가 됐지만, 이름이 하나가 됐다고 사는 모습까지 같아지지는 않아. 이웃한 두 곳이 왜 이렇게 다를까?</blockquote>
+<div class="ws-2c c2-mid" style="grid-template-columns:minmax(0,1.0fr) minmax(0,1.1fr)"><div class="c2-a">
+<figure class="ws-fig"><img src="images/7-2_gokseong.jpg" alt="곡성읍 — 작은 읍내 뒤로 논과 산줄기" loading="lazy"><figcaption>곡성읍 — 작은 읍내 뒤로 논과 산줄기</figcaption></figure>
+</div><div class="c2-b">
+<p>🎙 광주 바로 옆에 곡성군이 있어. 광주는 1㎢에 1,000명이 넘게 살고, 곡성군은 100명이 안 돼. 2026년 7월부터 둘은 같은 '전남광주통합특별시'가 됐지만, 이름이 하나가 됐다고 사는 모습까지 같아지지는 않아. 이웃한 두 곳이 왜 이렇게 다를까?</p>
+</div></div>
 <br>
-<figure class="ws-fig"><img src="images/7-2_gokseong.jpg" alt="전라남도 곡성군 곡성읍을 높은 곳에서 내려다본 모습. 낮은 건물과 학교 운동장이 모인 작은 읍내 뒤로 논이 펼쳐지고, 그 너머를 산줄기가 둘러싸고 있다." loading="lazy"><figcaption>전라남도 곡성군 곡성읍을 높은 곳에서 내려다본 모습. 낮은 건물과 학교 운동장이 모인 작은 읍내 뒤로 논이 펼쳐지고, 그 너머를 산줄기가 둘러싸고 있다.</figcaption></figure>
-<blockquote>📷 곡성읍 전경 (한국학중앙연구원 · 공공누리 제1유형 · Wikimedia Commons) — 촬영 연도 미상</blockquote>
-<br>
-<div class="ws-pick" id="pk140"><div class="pk-head"><span>사람을 부르는 조건 여섯 가지다. 사람이 만든 것인지 아닌지로 골라 보자. 다 고르면 까닭이 열린다.</span><b class="pk-count">0 / 6</b></div><div class="pk-grid pk-gold"><div class="pk-card pk-noimg" data-i="0" data-ans="자연적 요인"><div class="pk-name">온화한 기후</div><div class="pk-sit">벼농사에 알맞게 따뜻하다</div><div class="pk-btns"><button type="button" class="pk-b" data-v="자연적 요인">자연적 요인</button><button type="button" class="pk-b" data-v="인문·사회적 요인">인문·사회적 요인</button></div><div class="pk-why" hidden>날씨는 사람이 만들지 않았다</div></div><div class="pk-card pk-noimg" data-i="1" data-ans="자연적 요인"><div class="pk-name">넓은 평야</div><div class="pk-sit">논을 넓게 만들 수 있다</div><div class="pk-btns"><button type="button" class="pk-b" data-v="자연적 요인">자연적 요인</button><button type="button" class="pk-b" data-v="인문·사회적 요인">인문·사회적 요인</button></div><div class="pk-why" hidden>땅의 생김새는 자연이 만든 조건이다</div></div><div class="pk-card pk-noimg" data-i="2" data-ans="자연적 요인"><div class="pk-name">산이 많은 땅</div><div class="pk-sit">길을 내고 집을 짓기 어렵다</div><div class="pk-btns"><button type="button" class="pk-b" data-v="자연적 요인">자연적 요인</button><button type="button" class="pk-b" data-v="인문·사회적 요인">인문·사회적 요인</button></div><div class="pk-why" hidden>지형은 자연이 만든 조건이다</div></div><div class="pk-card pk-noimg" data-i="3" data-ans="인문·사회적 요인"><div class="pk-name">공장과 회사</div><div class="pk-sit">일자리가 많다</div><div class="pk-btns"><button type="button" class="pk-b" data-v="자연적 요인">자연적 요인</button><button type="button" class="pk-b" data-v="인문·사회적 요인">인문·사회적 요인</button></div><div class="pk-why" hidden>사람이 세운 산업이다</div></div><div class="pk-card pk-noimg" data-i="4" data-ans="인문·사회적 요인"><div class="pk-name">고속 도로와 철도</div><div class="pk-sit">오가기 편하다</div><div class="pk-btns"><button type="button" class="pk-b" data-v="자연적 요인">자연적 요인</button><button type="button" class="pk-b" data-v="인문·사회적 요인">인문·사회적 요인</button></div><div class="pk-why" hidden>사람이 만든 교통이다</div></div><div class="pk-card pk-noimg" data-i="5" data-ans="인문·사회적 요인"><div class="pk-name">대학 병원과 백화점</div><div class="pk-sit">생활이 편리하다</div><div class="pk-btns"><button type="button" class="pk-b" data-v="자연적 요인">자연적 요인</button><button type="button" class="pk-b" data-v="인문·사회적 요인">인문·사회적 요인</button></div><div class="pk-why" hidden>사람이 만든 생활 편의 시설이다</div></div></div><div class="pk-result" hidden></div></div><script>(function(){var w=document.getElementById("pk140");var cs=[].slice.call(w.querySelectorAll(".pk-card")),N=cs.length;var OPTS=["자연적 요인", "인문·사회적 요인"],MOOD=false,OPEN=false;function done(){return cs.filter(function(c){return c.dataset.pick}).length}function reveal(){var ok=0;cs.forEach(function(c){var right=c.dataset.pick===c.dataset.ans;if(right)ok++;c.classList.add(right?"pk-ok":"pk-no");if(!right&&MOOD){c.classList.remove("pk-happy","pk-sad");c.classList.add(c.dataset.ans==="웃음"?"pk-happy":"pk-sad");}if(!right||OPEN)c.querySelector(".pk-why").hidden=false;if(right&&!OPEN&&!c.dataset.tap){c.dataset.tap=1;c.classList.add("pk-tap");c.addEventListener("click",function(e){if(e.target.closest&&e.target.closest(".pk-b"))return;var y=c.querySelector(".pk-why");y.hidden=!y.hidden;});}});var r=w.querySelector(".pk-result");r.hidden=false;r.innerHTML="<b>"+ok+" / "+N+"</b> 맞혔어. "+(OPEN?"모든 카드의 이유가 펼쳐졌어 — 틀린 카드부터 보자.":"틀린 카드는 이유가 먼저 펼쳐졌어 — 거기부터 보자. 맞힌 카드도 누르면 이유가 열려.")+"<div class='pk-sum'>"+OPTS.map(function(o,oi){var head=MOOD?(o==="웃음"?"웃는 사람":"우는 사람"):o;var cls=MOOD?(o==="웃음"?"pk-up":"pk-down"):("pk-c"+oi);return "<div class='pk-col "+cls+"'><b>"+head+"</b>"+cs.filter(function(c){return c.dataset.ans===o}).map(function(c){return "<span>"+c.querySelector(".pk-name").textContent+"</span>"}).join("")+"</div>"}).join("")+"</div>";r.scrollIntoView({block:"nearest",behavior:"smooth"});}cs.forEach(function(c){c.querySelectorAll(".pk-b").forEach(function(b){b.addEventListener("click",function(){if(w.classList.contains("pk-done"))return;c.dataset.pick=b.dataset.v;c.classList.add("pk-set");if(MOOD){c.classList.remove("pk-happy","pk-sad");c.classList.add(b.dataset.v==="웃음"?"pk-happy":"pk-sad");}c.querySelectorAll(".pk-b").forEach(function(x){x.classList.toggle("on",x===b)});w.querySelector(".pk-count").textContent=done()+" / "+N;if(done()===N){w.classList.add("pk-done");reveal();}});});});})();</script>
+<div class="ws-pick" id="pk121"><div class="pk-head"><span>사람을 부르는 조건 여섯 가지다. 자연이 준 조건(자연적 요인)인지, 사람이 만든 조건(인문·사회적 요인)인지 골라 보자. 다 고르면 정답이 나오고, 틀린 카드는 까닭이 먼저 펼쳐진다.</span><b class="pk-count">0 / 6</b></div><div class="pk-grid pk-gold"><div class="pk-card pk-noimg" data-i="0" data-ans="자연"><div class="pk-name">온화한 기후</div><div class="pk-sit">벼농사에 알맞게 따뜻하다</div><div class="pk-btns"><button type="button" class="pk-b" data-v="자연">자연</button><button type="button" class="pk-b" data-v="인문·사회">인문·사회</button></div><div class="pk-why" hidden>날씨는 사람이 만들지 않았다</div></div><div class="pk-card pk-noimg" data-i="1" data-ans="자연"><div class="pk-name">넓은 평야</div><div class="pk-sit">논을 넓게 만들 수 있다</div><div class="pk-btns"><button type="button" class="pk-b" data-v="자연">자연</button><button type="button" class="pk-b" data-v="인문·사회">인문·사회</button></div><div class="pk-why" hidden>땅의 생김새는 자연이 만든 조건이다</div></div><div class="pk-card pk-noimg" data-i="2" data-ans="자연"><div class="pk-name">산이 많은 땅</div><div class="pk-sit">길을 내고 집을 짓기 어렵다</div><div class="pk-btns"><button type="button" class="pk-b" data-v="자연">자연</button><button type="button" class="pk-b" data-v="인문·사회">인문·사회</button></div><div class="pk-why" hidden>지형은 자연이 만든 조건이다</div></div><div class="pk-card pk-noimg" data-i="3" data-ans="인문·사회"><div class="pk-name">공장과 회사</div><div class="pk-sit">일자리가 많다</div><div class="pk-btns"><button type="button" class="pk-b" data-v="자연">자연</button><button type="button" class="pk-b" data-v="인문·사회">인문·사회</button></div><div class="pk-why" hidden>사람이 세운 산업이다</div></div><div class="pk-card pk-noimg" data-i="4" data-ans="인문·사회"><div class="pk-name">고속 도로와 철도</div><div class="pk-sit">오가기 편하다</div><div class="pk-btns"><button type="button" class="pk-b" data-v="자연">자연</button><button type="button" class="pk-b" data-v="인문·사회">인문·사회</button></div><div class="pk-why" hidden>사람이 만든 교통이다</div></div><div class="pk-card pk-noimg" data-i="5" data-ans="인문·사회"><div class="pk-name">대학 병원과 백화점</div><div class="pk-sit">생활이 편리하다</div><div class="pk-btns"><button type="button" class="pk-b" data-v="자연">자연</button><button type="button" class="pk-b" data-v="인문·사회">인문·사회</button></div><div class="pk-why" hidden>사람이 만든 생활 편의 시설이다</div></div></div><div class="pk-result" hidden></div></div><script>(function(){var w=document.getElementById("pk121");var cs=[].slice.call(w.querySelectorAll(".pk-card")),N=cs.length;var OPTS=["자연", "인문·사회"],MOOD=false,OPEN=false;function done(){return cs.filter(function(c){return c.dataset.pick}).length}function reveal(){var ok=0;cs.forEach(function(c){var right=c.dataset.pick===c.dataset.ans;if(right)ok++;c.classList.add(right?"pk-ok":"pk-no");if(!right&&MOOD){c.classList.remove("pk-happy","pk-sad");c.classList.add(c.dataset.ans==="웃음"?"pk-happy":"pk-sad");}if(!right||OPEN)c.querySelector(".pk-why").hidden=false;if(right&&!OPEN&&!c.dataset.tap){c.dataset.tap=1;c.classList.add("pk-tap");c.addEventListener("click",function(e){if(e.target.closest&&e.target.closest(".pk-b"))return;var y=c.querySelector(".pk-why");y.hidden=!y.hidden;});}});var r=w.querySelector(".pk-result");r.hidden=false;r.innerHTML="<b>"+ok+" / "+N+"</b> 맞혔어. "+(OPEN?"모든 카드의 이유가 펼쳐졌어 — 틀린 카드부터 보자.":"틀린 카드는 이유가 먼저 펼쳐졌어 — 거기부터 보자. 맞힌 카드도 누르면 이유가 열려.")+"<div class='pk-sum'>"+OPTS.map(function(o,oi){var head=MOOD?(o==="웃음"?"웃는 사람":"우는 사람"):o;var cls=MOOD?(o==="웃음"?"pk-up":"pk-down"):("pk-c"+oi);return "<div class='pk-col "+cls+"'><b>"+head+"</b>"+cs.filter(function(c){return c.dataset.ans===o}).map(function(c){return "<span>"+c.querySelector(".pk-name").textContent+"</span>"}).join("")+"</div>"}).join("")+"</div>";r.scrollIntoView({block:"nearest",behavior:"smooth"});}cs.forEach(function(c){c.querySelectorAll(".pk-b").forEach(function(b){b.addEventListener("click",function(){if(w.classList.contains("pk-done"))return;c.dataset.pick=b.dataset.v;c.classList.add("pk-set");if(MOOD){c.classList.remove("pk-happy","pk-sad");c.classList.add(b.dataset.v==="웃음"?"pk-happy":"pk-sad");}c.querySelectorAll(".pk-b").forEach(function(x){x.classList.toggle("on",x===b)});w.querySelector(".pk-count").textContent=done()+" / "+N;if(done()===N){w.classList.add("pk-done");reveal();}});});});})();</script>
 <br>
 <section class="ws-do"><div class="ws-do-tag">직접 해 보는 곳</div><h2>✏ 활동 1 — 광주와 곡성, 무엇이 다를까?</h2>
 <br>
@@ -1247,17 +1237,7 @@ table:has(.ox-group) td:first-child { width: 46px; text-align: center; color: #6
 </section><section class="ws-do"><div class="ws-do-tag">직접 해 보는 곳</div><h2>💭 더 생각해 보기</h2>
 <p>우리나라 사람의 절반이 수도권에 산다. 이렇게 한곳에 몰리면 <strong>수도권</strong>과 <strong>곡성 같은 지역</strong>에 각각 어떤 일이 생길까? 하나씩 들어 두세 문장으로 써 보자.</p>
 <textarea class="essay-input" data-id="essay-1" data-label="💭 더 생각해 보기" placeholder="자기 생각을 자유롭게 써 보세요"></textarea>
-<br>
-</section><h2>📎 각주</h2>
-<p>- 교과서: 천재교육 사회②(구정화) 130~131쪽</p>
-<p>- 지역구 의석: 「공직선거법」 [별표 1] 국회의원지역선거구구역표(2026. 4. 22. 개정) 지역구 254, 수도권 122(서울 48·경기 60·인천 14) · 2016년 값은 교과서 130쪽 지도</p>
-<p>- 전남광주통합특별시: 「전남광주통합특별시 설치를 위한 특별법」 제7조 · 2026년 7월 1일 출범</p>
-<p>- 수도권 인구: 국가데이터처 2025년 인구주택총조사(2,638만 명·50.9%) · 행정안전부 주민등록 인구통계 2026년 9월(51.1%)</p>
-<p>- 부산 인구 이동: 국가데이터처 2025년 국내인구이동통계(2026년 1월 발표)</p>
-<p>- 강원 시군 인구: 행정안전부 주민등록 인구통계(2026년 8~9월)</p>
-<p>- 시군구 인구 밀도(2015·2025): 통계청·국가데이터처 인구주택총조사 시군구별 총인구 · 경계 geoBoundaries KOR ADM2(CC BY 3.0) · 자체 제작</p>
-<p>- 고급 단어 사진: 울산 현대자동차 조립 라인(CC BY 2.5) · 울산 현대중공업 조선소(Wvdp · CC0) — Wikimedia Commons</p>
-<p>- 표지: 국제 우주 정거장에서 본 한반도의 밤, 2024년 1월 24일 (NASA · 퍼블릭 도메인 · Wikimedia Commons)</p>
+<br></section>
 </div>
 <script>
 const TB=7, TOX=5, GT=12;

diff --git a/worksheet-gen.py b/worksheet-gen.py
@@ -219,6 +219,8 @@ def build_html_from_blank(blank_file, answers, ox_answers, answer_file, teacher=
     in_rad = False            # 2026-09-14: 방사형 펼침 (:::펼침 ... :::)
     rad_rows = []
     rad_center, rad_note = '', ''
+    in_2c_tb = False
+    in_follow = False
     in_tb = False             # 2026-09-02: 교과서를 펴는 자리 (:::교과서 <라벨> ... :::)
     tb_label = ''             #   학습지 안(파랑)과 교과서 밖(황토)을 색으로 갈라 놓는다.
     tb_lines = []
@@ -1399,8 +1401,35 @@ def build_html_from_blank(blank_file, answers, ox_answers, answer_file, teacher=
         #   그래프(660px)·플립 카드 아래에 💬 질문과 답 칸이 따로 쌓여 활동 2가 1,638px였다.
         #   자료 왼쪽 · 질문과 답 칸 오른쪽. 안쪽은 평소 처리(그래프·플립·입력칸 그대로, data-id 순서 불변).
         #   ⚠ 안쪽 블록(그래프·플립 등)은 이 처리기보다 앞에서 자기 닫는 ':::'를 먼저 가져간다 — 순서를 바꾸지 말 것.
+        # ↪ :::이어서 [| 태그] … ::: — 2026-10-07 사회 7-2(천대현 «10년 동안 무엇이 달라졌을까?는 위 지도와 함께 한 눈에»)
+        #   바로 앞 교과서 상자(:::교과서 또는 :::2단 … 교과서)를 닫지 않고 그 안에 이어 넣는다. 안쪽은 평소대로 처리.
+        if stripped.startswith(':::이어서') and not in_2c:
+            _lab = stripped.partition('|')[2].strip()
+            _k = len(html_parts) - 1
+            while _k >= 0 and html_parts[_k].strip() in ('', '<br>'):
+                _k -= 1
+            if _k >= 0 and html_parts[_k] == '<!--tb-end--></div>':
+                del html_parts[_k:]
+            elif _k >= 0 and html_parts[_k].startswith('<div class="ws-tb">') and html_parts[_k].endswith('</div>'):
+                html_parts[_k] = html_parts[_k][:-len('</div>')]; del html_parts[_k + 1:]
+            else:
+                html_parts.append('<div class="ws-tb">')
+            html_parts.append('<div class="ws-tb-join">' + (f'<div class="ws-tb-tag ws-tb-tag2">{inline(_lab)}</div>' if _lab else ''))
+            in_follow = True
+            continue
+        if in_follow and stripped == ':::':
+            if in_table:   # 표는 «표 아닌 다음 줄»에서 닫히므로 여기서 먼저 닫는다
+                html_parts.append('</table>'); in_table = False; table_row_idx = 0
+            html_parts.append('</div>')
+            html_parts.append('<!--tb-end--></div>')
+            in_follow = False
+            continue
         if stripped.startswith(':::2단'):
-            _opts = stripped[len(':::2단'):].split()
+            # 2026-10-07 사회 7-2 천대현 «생각 열기 아래 지도·표가 따로 논다» — `교과서 | 태그 글`을 붙이면
+            #   2단 전체를 :::교과서 상자와 같은 황토 테두리·태그로 감싸 바로 위 교과서 상자에 이어 붙인다.
+            _head, _, _tblab = stripped.partition('|')
+            _opts = _head[len(':::2단'):].split()
+            _tb2 = '교과서' in _opts
             _r = next((o for o in _opts if ':' in o), '1.2:1')
             _mid = '가운데' in _opts          # 2026-10-02: 사진 + 짧은 설명 — 글을 세로 가운데에(천대현 «예쁘게»)
             _card = '카드' in _opts           # 오른쪽 단을 설명 카드로
@@ -1410,15 +1439,30 @@ def build_html_from_blank(blank_file, answers, ox_answers, answer_file, teacher=
             except Exception:
                 _a, _b = 1.2, 1.0
             _cls = 'ws-2c' + (' c2-mid' if _mid else '') + (' c2-card' if _card else '') + (' c2-keep' if _keep else '')
+            if _tb2:
+                # 바로 앞이 :::교과서 상자면 그 상자를 닫지 않고 안에 이어 넣는다(두 상자가 떨어져 보이지 않게).
+                _k = len(html_parts) - 1
+                while _k >= 0 and html_parts[_k].strip() in ('', '<br>'):   # 빈 줄이 <br>로 들어온다
+                    _k -= 1
+                if _k >= 0 and html_parts[_k].startswith('<div class="ws-tb">') and html_parts[_k].endswith('</div>'):
+                    html_parts[_k] = html_parts[_k][:-len('</div>')]
+                    del html_parts[_k + 1:]
+                    html_parts.append(f'<div class="ws-tb-join"><div class="ws-tb-tag ws-tb-tag2">{inline(_tblab.strip() or "📕 교과서")}</div>')
+                    _tb2 = 'join'
+                else:
+                    html_parts.append(f'<div class="ws-tb ws-tb-2c"><div class="ws-tb-tag">{inline(_tblab.strip() or "📕 교과서")}</div>')
             html_parts.append(f'<div class="{_cls}" style="grid-template-columns:minmax(0,{_a}fr) minmax(0,{_b}fr)"><div class="c2-a">')
             in_2c = True
+            in_2c_tb = _tb2
             continue
         if in_2c and stripped == ':::다음칸':
             html_parts.append('</div><div class="c2-b">')
             continue
         if in_2c and stripped == ':::':
-            html_parts.append('</div></div>')
-            in_2c = False
+            html_parts.append('</div></div>' + ('</div>' if in_2c_tb == 'join' else ''))   # join = 이음 칸
+            if in_2c_tb:
+                html_parts.append('<!--tb-end--></div>')   # 교과서 상자 닫힘 — :::이어서 가 다시 열 수 있게 표식
+            in_2c = False; in_2c_tb = False
             continue
 
         # 📖 표·도식을 읽는 자리 (:::해설 ... :::) — 2026-09-03 천대현
@@ -2273,10 +2317,11 @@ code {{ background: #f1f3f7; border: 1px solid #e2e6ec; border-radius: 5px;
 .pk-gold .pk-card.pk-noimg {{ padding-top: 0; }}
 .pk-gold .pk-card.pk-noimg .pk-name {{ padding-top: 14px; border-radius: 5px 5px 0 0; }}
 .pk-gold .pk-card.pk-noimg .pk-btns {{ flex: 1 1 auto; justify-content: flex-start; }}
-.pk-gold .pk-card.pk-noimg .pk-btns:not(.pk-btns-col) {{ align-items: flex-end; }}
+/* 2026-10-07 격자로 — 한 버튼만 두 줄로 꺾여도(폰 «인문·사회») 두 버튼 높이·폭이 같게. 줄은 아래에 붙인다. */
+.pk-gold .pk-card.pk-noimg .pk-btns:not(.pk-btns-col) {{ display: grid; grid-auto-flow: column; grid-auto-columns: minmax(0, 1fr); align-content: end; }}
 /* 2026-10-07 — 위 «flex: 0 0 auto»는 버튼 높이를 묶으려던 것인데 버튼 줄이 가로라 폭이 글자 크기로 묶였다
    (사회 7-4 «양» 17px · «비율» 28px). 폭은 똑같이 나누고(1 1 0) 높이는 아래 정렬로 고정한다. */
-.pk-gold .pk-card.pk-noimg .pk-btns:not(.pk-btns-col) .pk-b {{ flex: 1 1 0; }}
+.pk-gold .pk-card.pk-noimg .pk-btns:not(.pk-btns-col) .pk-b {{ flex: none; }}
 .pk-gold .pk-card.pk-noimg .pk-btns-col .pk-b {{ flex: 0 0 auto; }}   /* 세로(선택지 셋 이상)는 높이 고정 그대로 */
 @media print {{ .pk-b {{ display: none; }} .pk-card img {{ filter: none; }} }}
 
@@ -2855,6 +2900,14 @@ code {{ background: #f1f3f7; border: 1px solid #e2e6ec; border-radius: 5px;
   padding: 3px 10px; border-radius: 999px; margin-bottom: 8px;
 }}
 .ws-tb-see {{ font-size: 0.9em; color: #7a6742; margin: 2px 0 6px; }}
+/* 2026-10-07 :::2단 … 교과서 — 교과서 상자 바로 아래에 붙여 «생각 열기의 뒷이야기»로 읽히게(위 상자와 간격 줄임) */
+.ws-tb + .ws-tb-2c {{ margin-top: -6px; }}
+.ws-tb-join {{ border-top: 1px dashed #d9c48f; margin-top: 12px; padding-top: 12px; }}
+.ws-tb-join .ws-2c {{ margin: 4px 0 0; }} .ws-tb-join table {{ background: #fff; }} .ws-tb-join .c2-b {{ font-size: 0.95em; color: #3d3116; }}
+.ws-tb-tag2 {{ background: #7a6742; }}
+.ws-tb-2c .ws-2c {{ margin: 4px 0 0; }}
+.ws-tb-2c table {{ background: #fff; }}
+.ws-tb-2c .c2-b {{ font-size: 0.95em; color: #3d3116; }}
 .ws-tb-ask {{ font-size: 0.95em; color: #3d3116; font-weight: 600; line-height: 2.1; }}
 .ws-tb-ask strong {{ color: #8a5f12; }}
 .ws-tb input.activity-input {{
